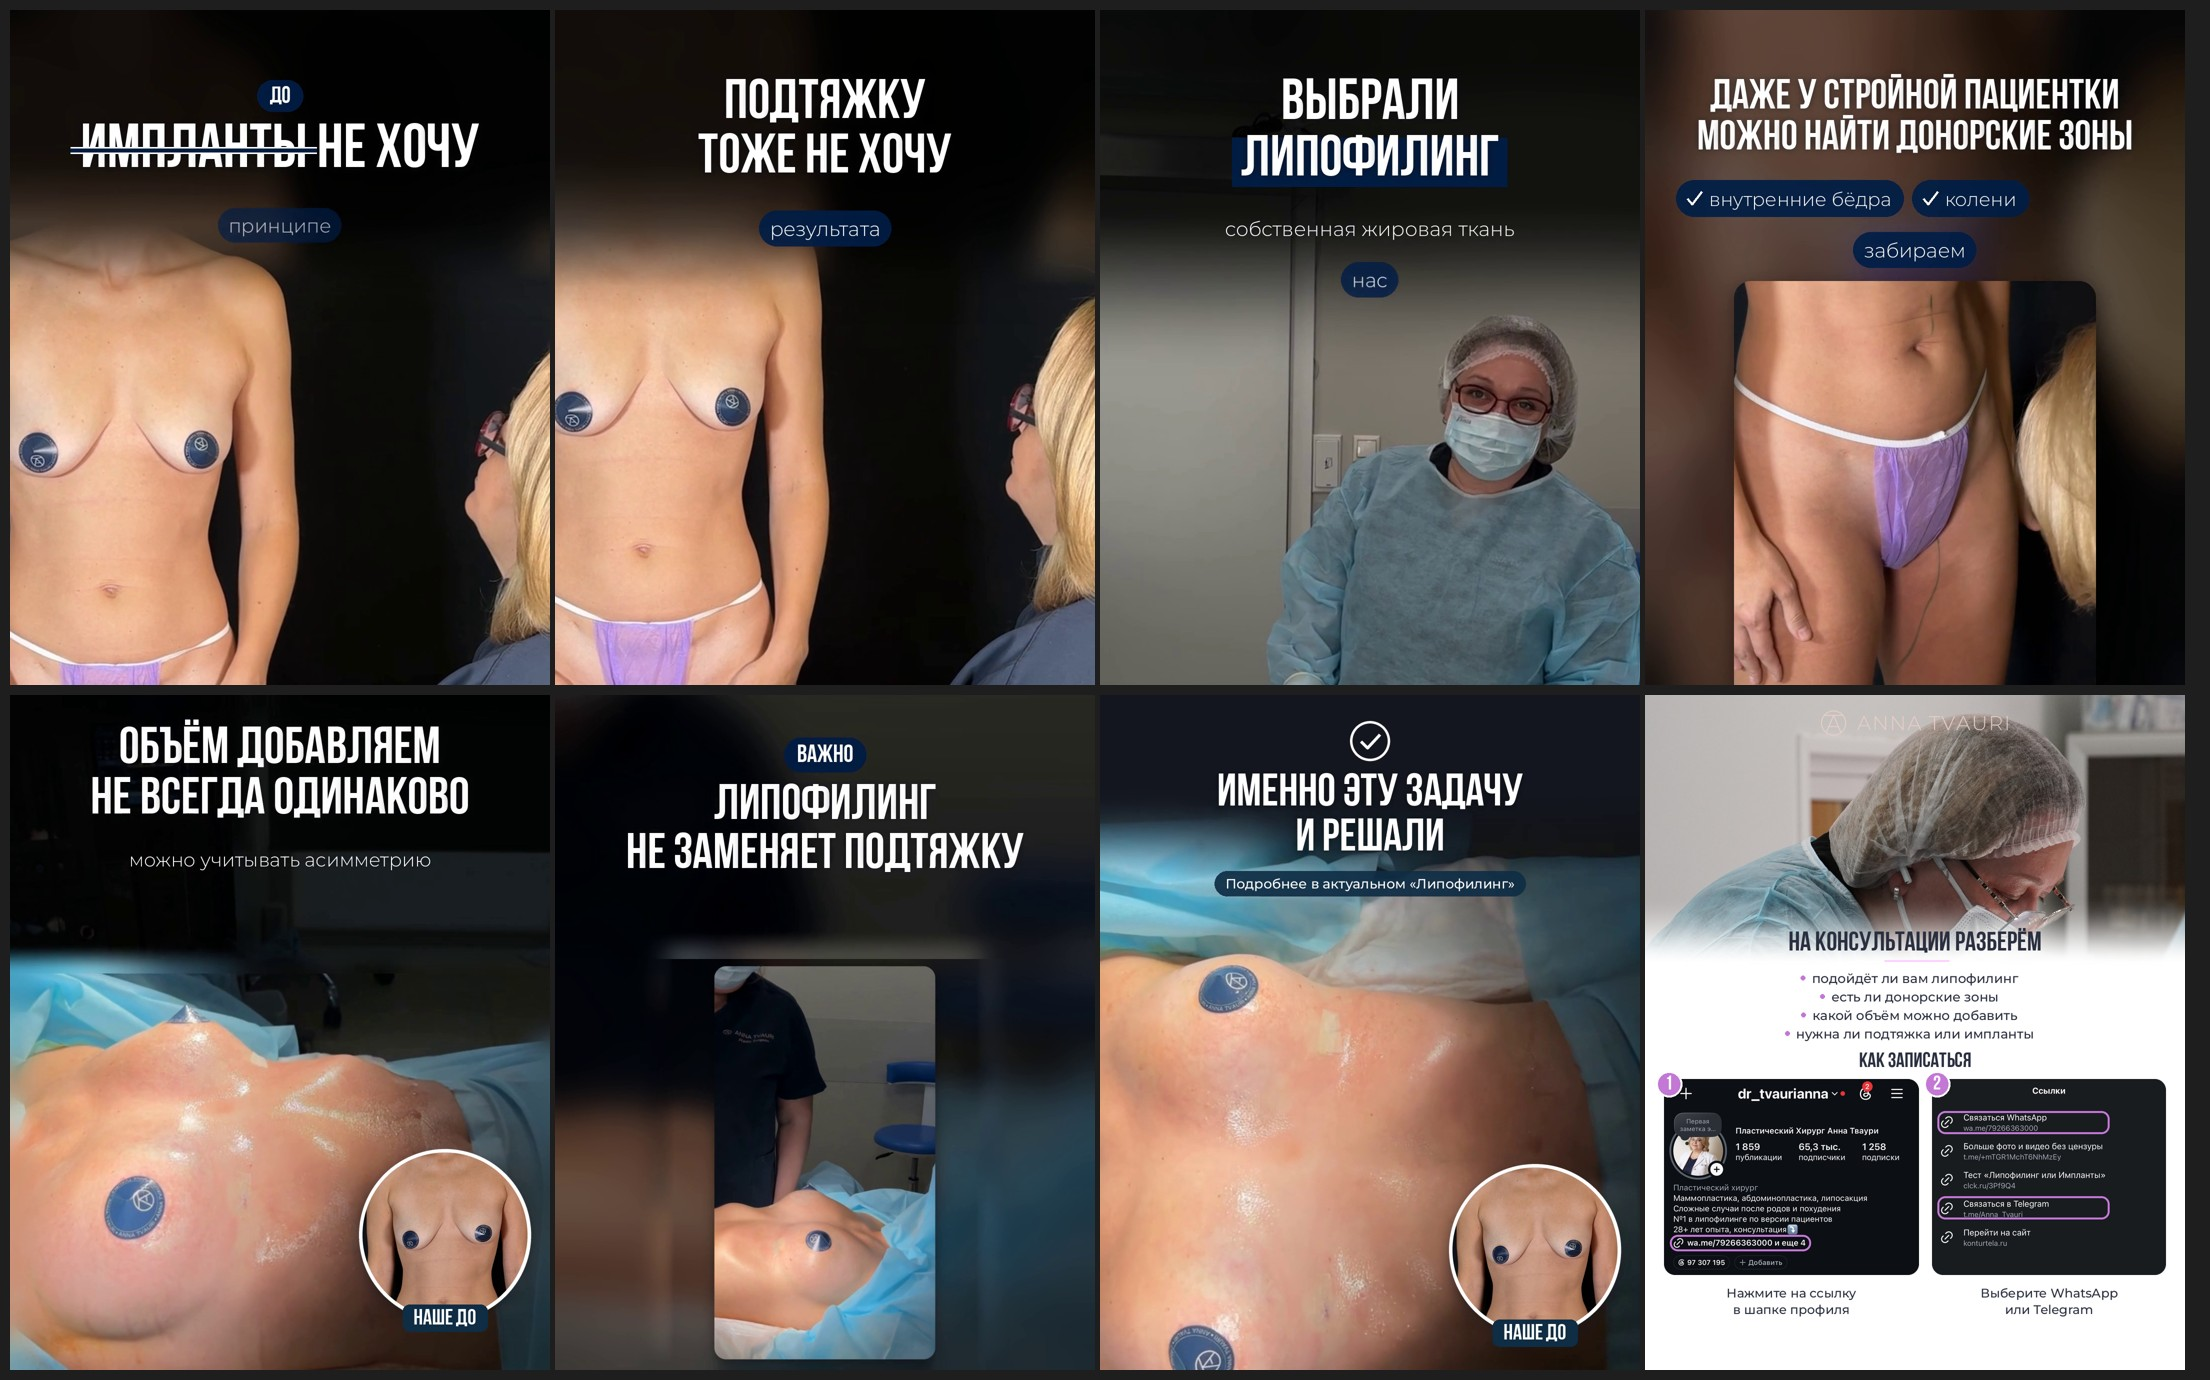
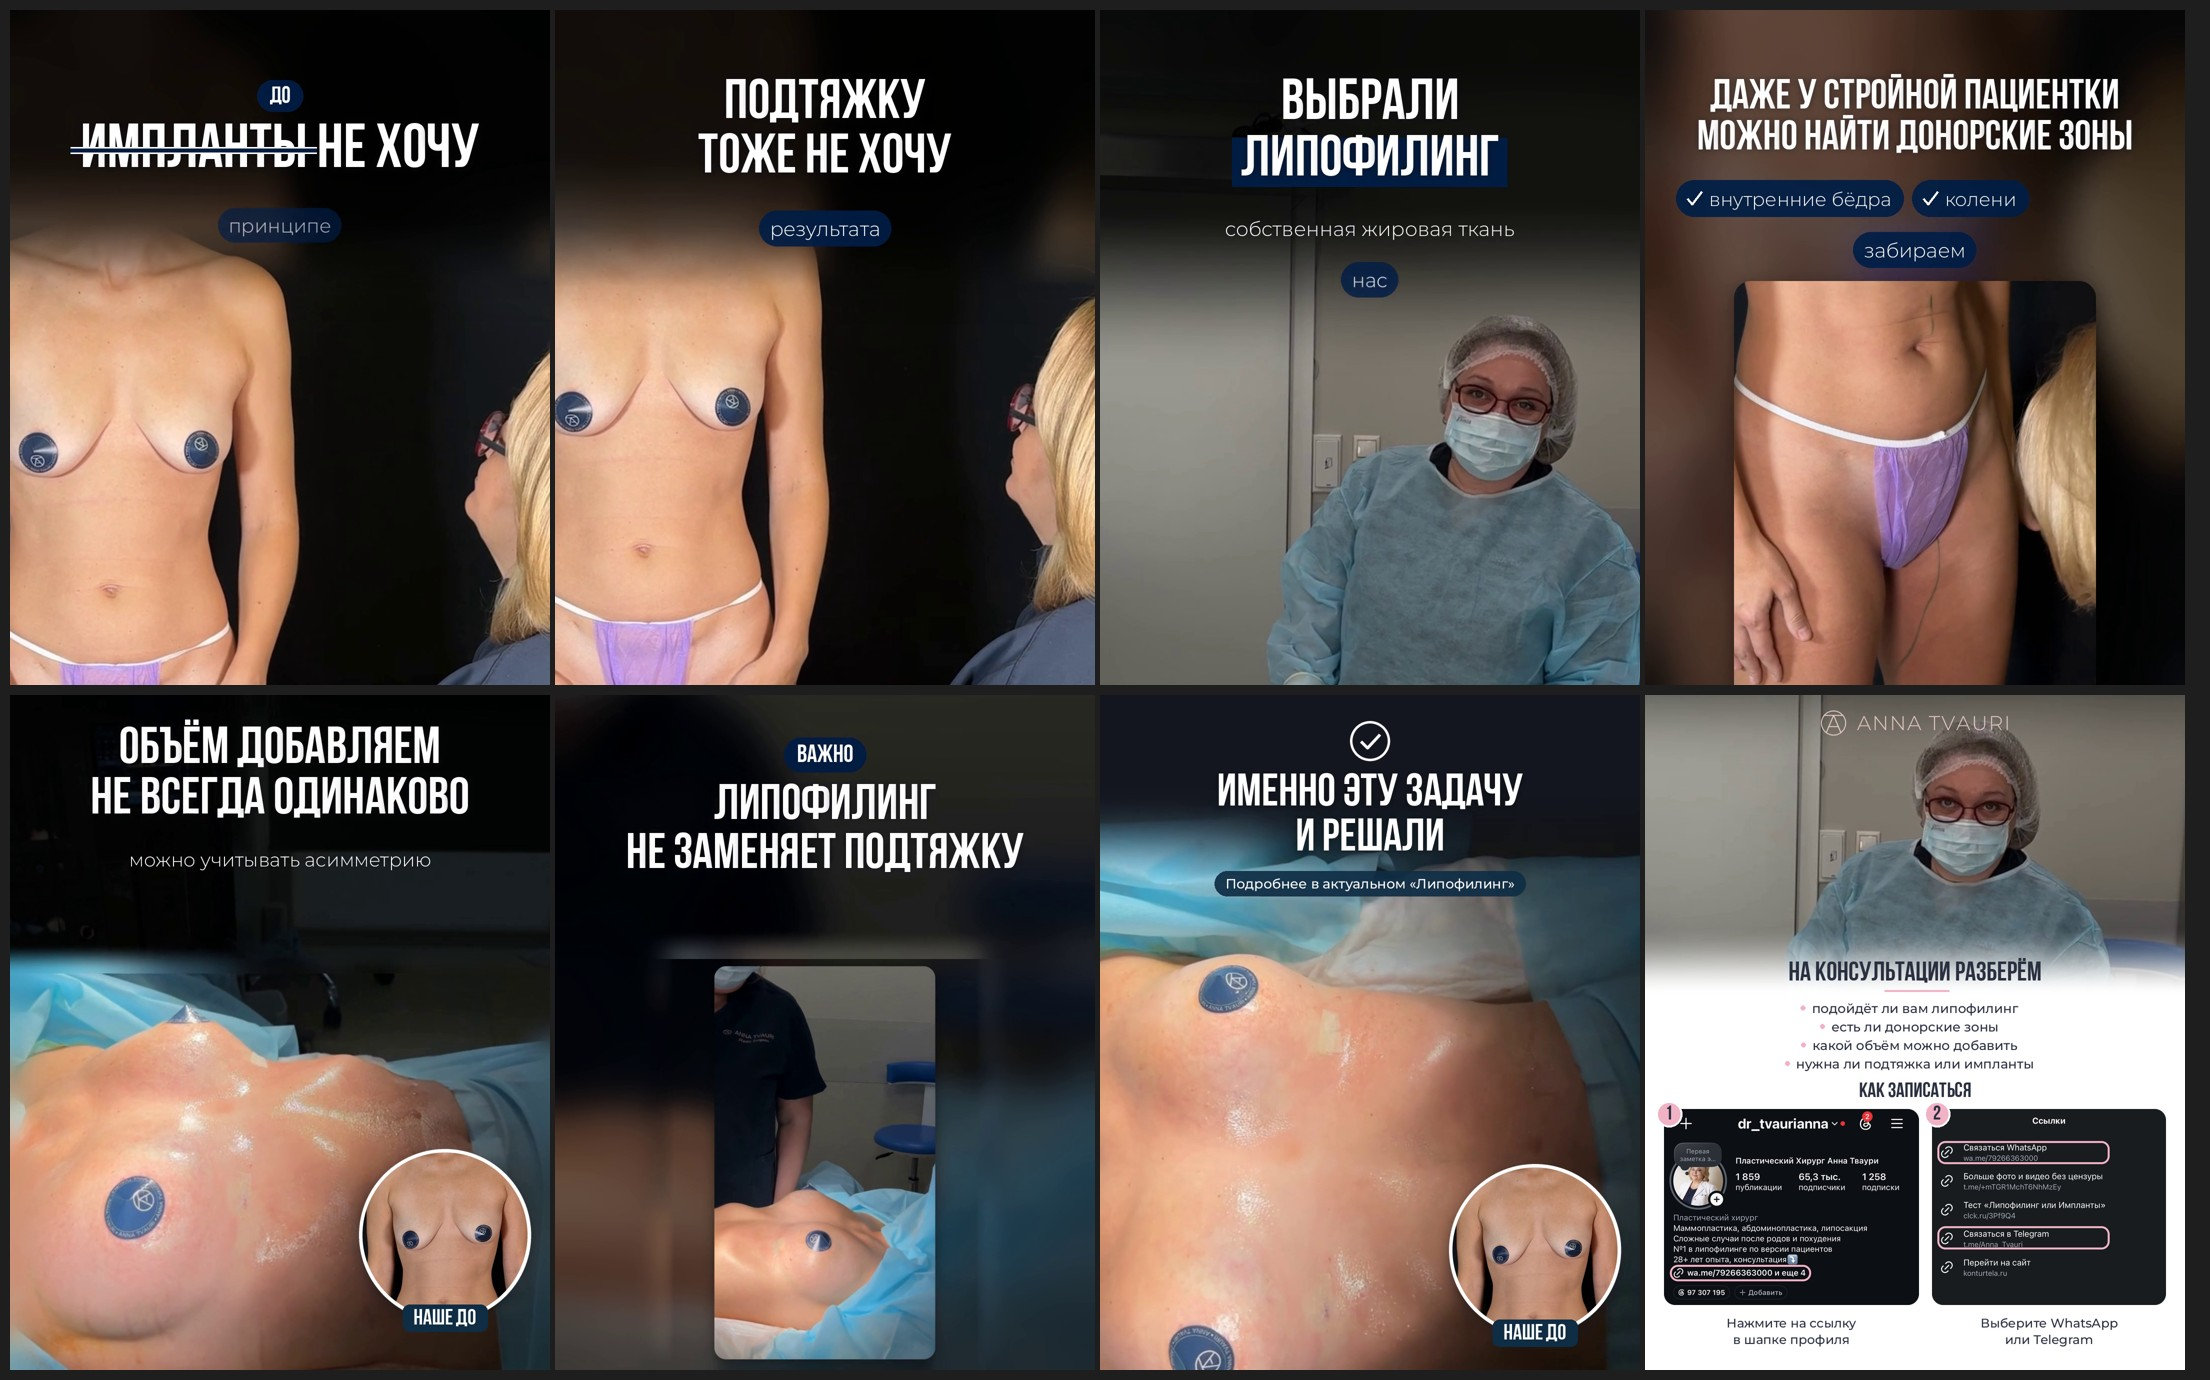
Lipofilling carousel: last slide shows the surgeon's whole face, accents in soft pastel pink
Claude-Session: https://claude.ai/code/session_01XB7jWmRDxB52StXcRzXaWE

Changed region(s): [[0.7181, 0.4986, 0.9991, 0.9659]]

diff --git a/tools/carousel_lipofilling.py b/tools/carousel_lipofilling.py
@@ -121,7 +121,7 @@ def cut(name, a, b, mode="crop", top=None, bot=None):
 
 
 ASSETS = os.path.join(os.path.dirname(os.path.dirname(os.path.abspath(__file__))), "carousel_lipofilling", "src")
-LILAC_D = (196, 120, 214)  # lilac dark enough to read on white and on the dark screenshots
+LILAC_D = (240, 178, 196)  # soft pastel pink: bullets, highlight frames, step badges
 
 
 def before_badge(path, cx, cy, r=165):
@@ -161,9 +161,12 @@ def cta():
     """surgeon on top, what the consultation covers, then how to book: the profile header and its links, annotated"""
     from PIL import Image, ImageDraw
     import numpy as np
-    PH = 540
-    im = ct.load_photo("DSC00888.JPG"); sc = W / im.width; sh = im.height * sc; off = 0.19 * sh
-    ph = im.resize((W, round(sh)), Image.LANCZOS).crop((0, int(off), W, int(off) + PH)).convert("RGBA")
+    PH = 600
+    ct.LILAC = LILAC_D  # the rule under the heading follows the same pink
+    # surgeon looking into the camera, taken from the reel below its captions: whole face stays clear of the fade
+    fr = os.path.join(OUT, "_frame.png")
+    subprocess.run(["ffmpeg", "-v", "error", "-y", "-ss", "12.4", "-i", REEL, "-frames:v", "1", fr], check=True)
+    ph = Image.open(fr).convert("RGBA").crop((0, 640, W, 640 + PH)); os.remove(fr)
     c = Image.new("RGBA", (W, H), ct.WHITE + (255,)); c.alpha_composite(ph, (0, 0))
     ct.put_logo(c, y=56, alpha=0.95)
     arr = np.zeros((H, W, 4), np.uint8); arr[..., :3] = 255
@@ -199,7 +202,7 @@ def cta():
         c.alpha_composite(card, (x0, y))
         # number badge on the card's top-left corner
         d.ellipse((x0 - 16, y - 16, x0 + 36, y + 36), fill=LILAC_D, outline=ct.WHITE, width=4)
-        d.text((x0 + 10, y + 11), num, font=ct.bebas(40), fill=ct.WHITE, anchor="mm")
+        d.text((x0 + 10, y + 11), num, font=ct.bebas(40), fill=ct.INK, anchor="mm")
         fc = ct.mont(25, 500)
         for li, ln in enumerate(cap.split("\n")):
             d.text((x0 + w_ / 2, y + hgt + 20 + li * 33), ln, font=fc, fill=ct.INK, anchor="ma")
